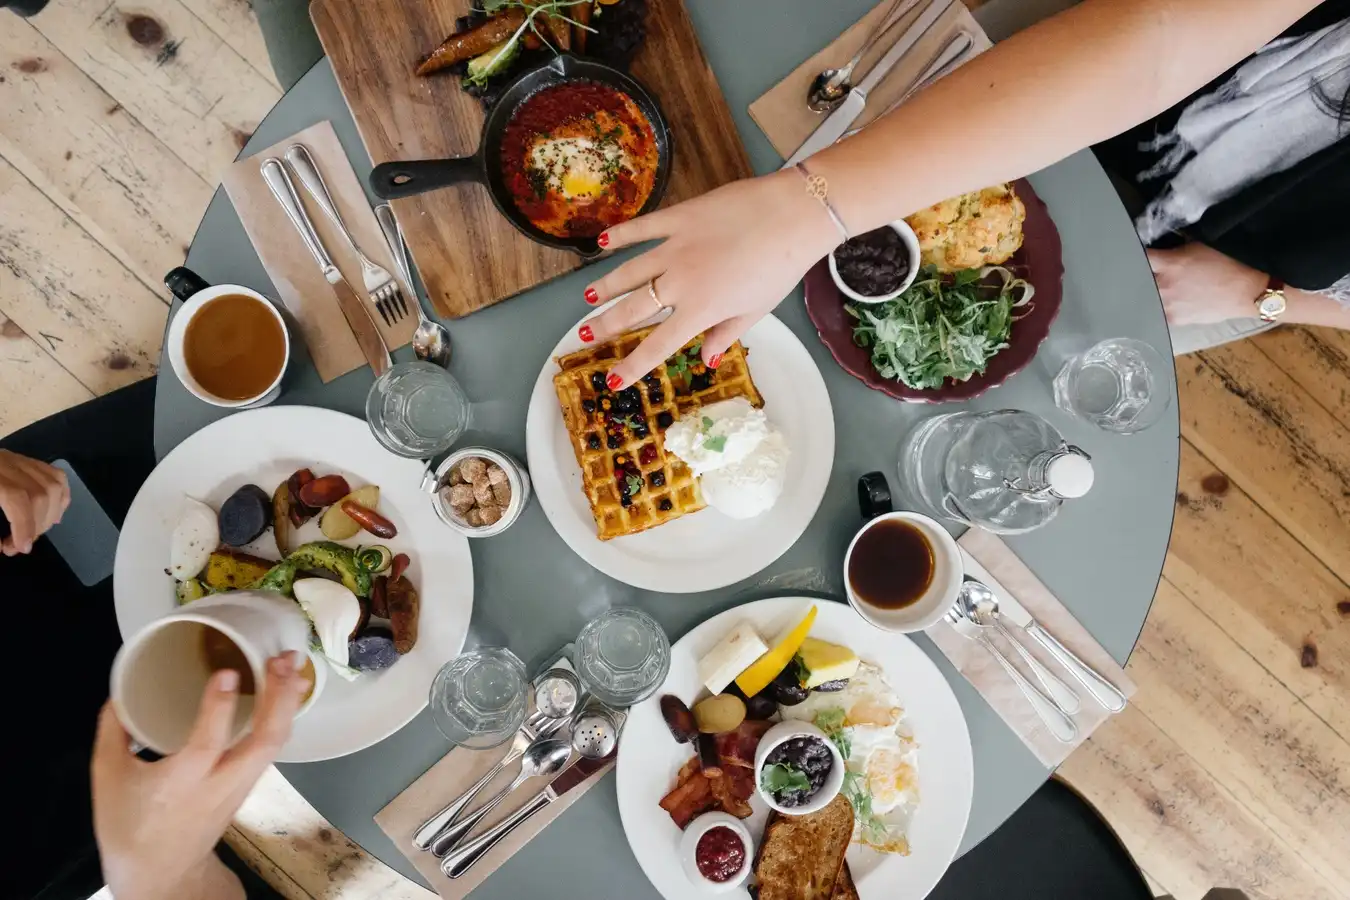
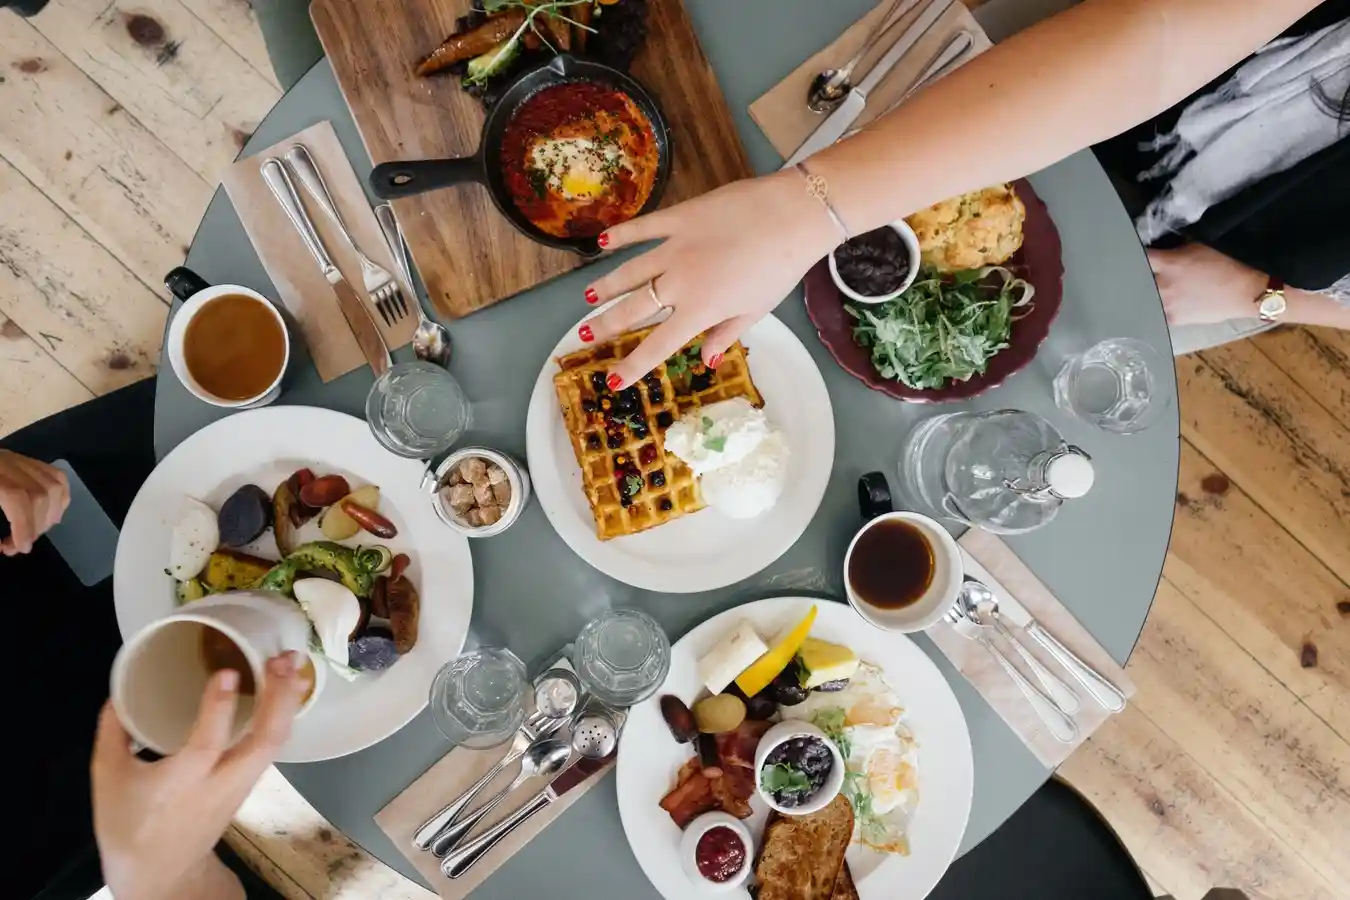
Update optimasi ukuran gambar

diff --git a/restaurant-apps-starter-project/src/scripts/index.js b/restaurant-apps-starter-project/src/scripts/index.js
@@ -3,7 +3,6 @@ import { openDB } from 'idb';
 import '../styles/main.css';
 import { tampilkanRestoranFavorit } from './favorite.js';
 import { tampilkanDetailRestoran } from './detail.js'; // Import the function
-import swRegister from './swregister.js'; // Import swRegister
 
 const mainContent = document.querySelector('#main-content');
 const hamburger = document.querySelector('.hamburger');
@@ -190,7 +189,7 @@ document.addEventListener('DOMContentLoaded', () => {
     mainContent.scrollIntoView({ behavior: 'smooth', block: 'start' });
   });
 
-  swRegister(); // Call swRegister to register the service worker
+  import('./swregister.js').then((module) => module.default()); // Lazy load swRegister
 });
 
 // Daftarkan service worker hanya di lingkungan produksi

diff --git a/restaurant-apps-starter-project/imagemin-webp.js b/restaurant-apps-starter-project/imagemin-webp.js
@@ -7,7 +7,7 @@ async function optimizeImages() {
       destination: 'src/public/images/optimized',
       plugins: [
         imageminWebp({
-          quality: 50, // Kurangi kualitas untuk mengurangi ukuran
+          quality: 30, // Menurunkan kualitas untuk ukuran lebih kecil
         }),
       ],
     });
